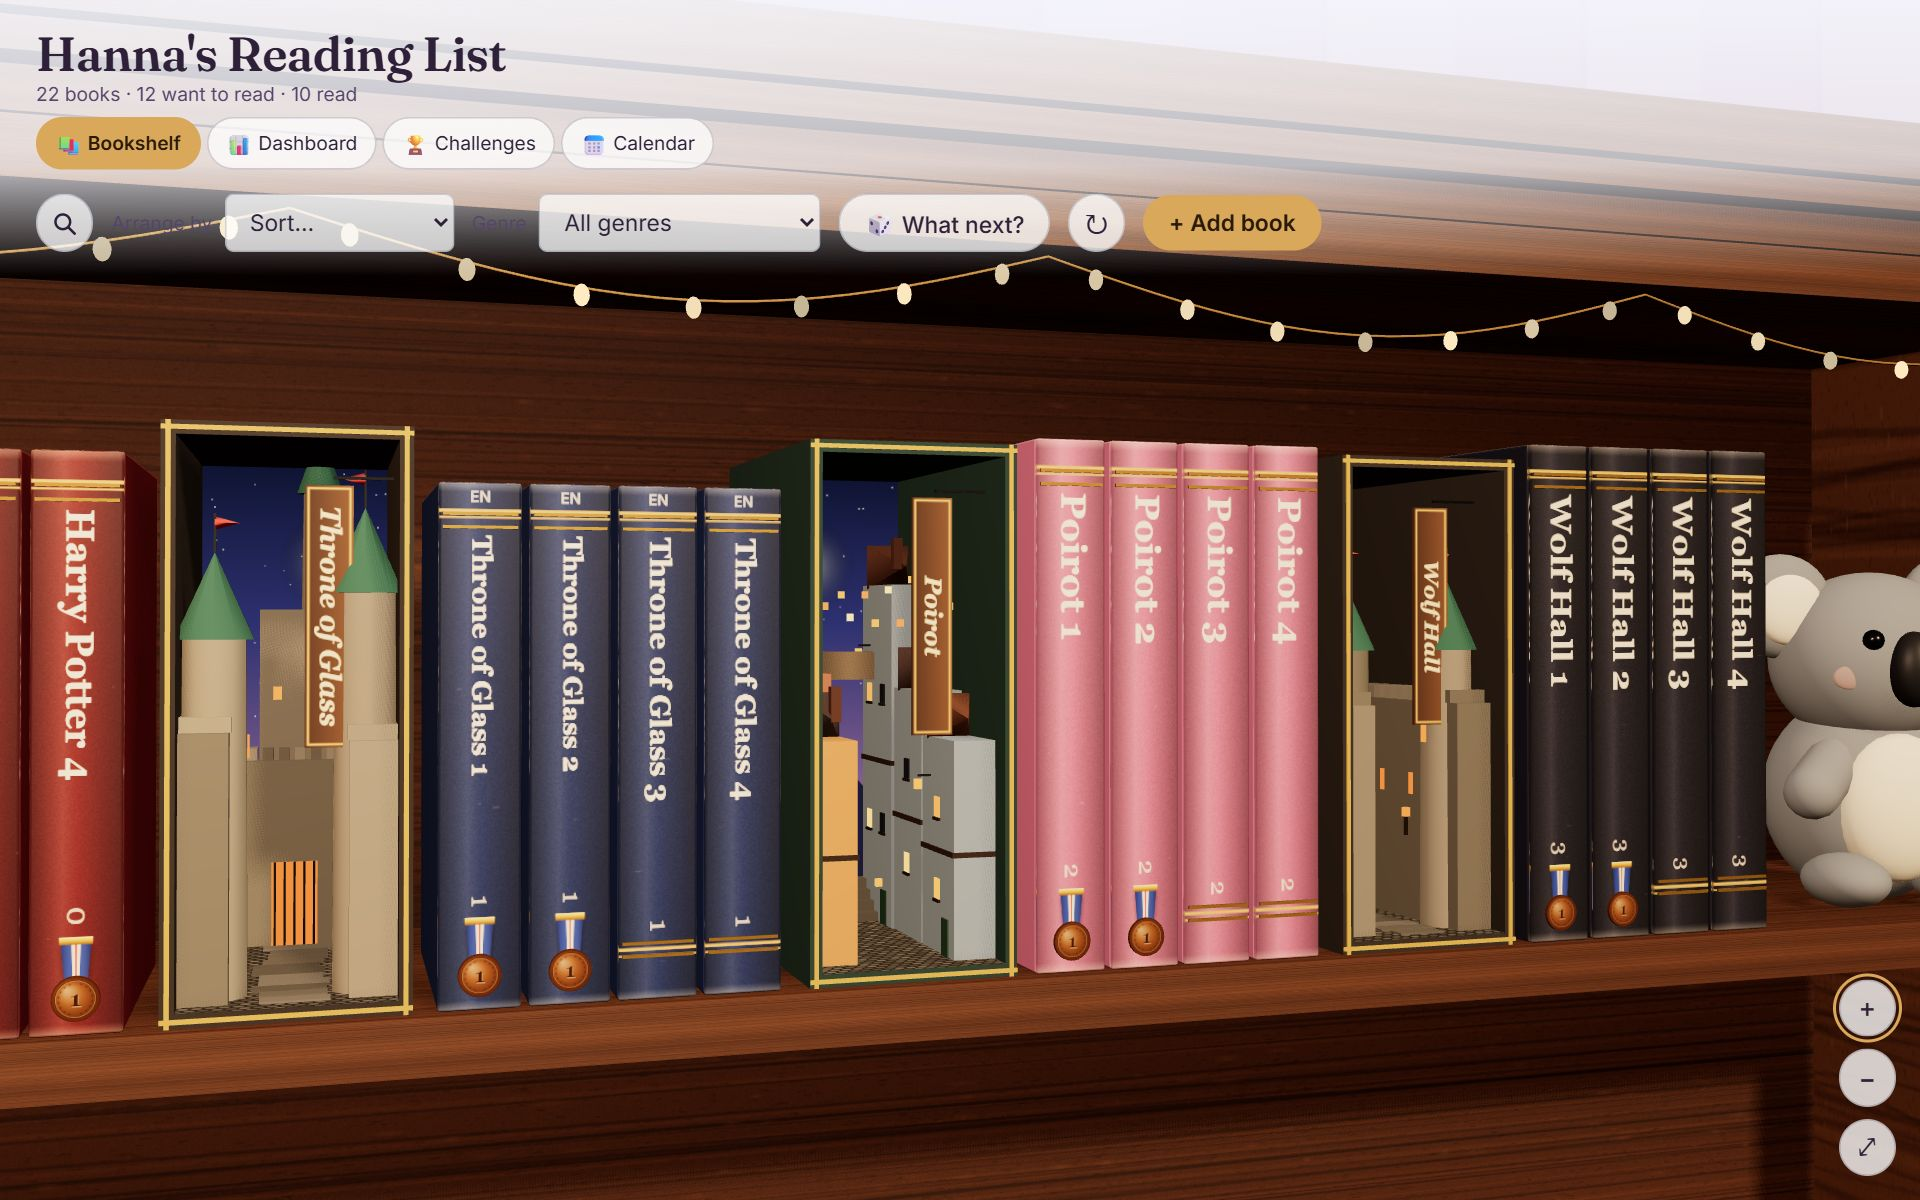
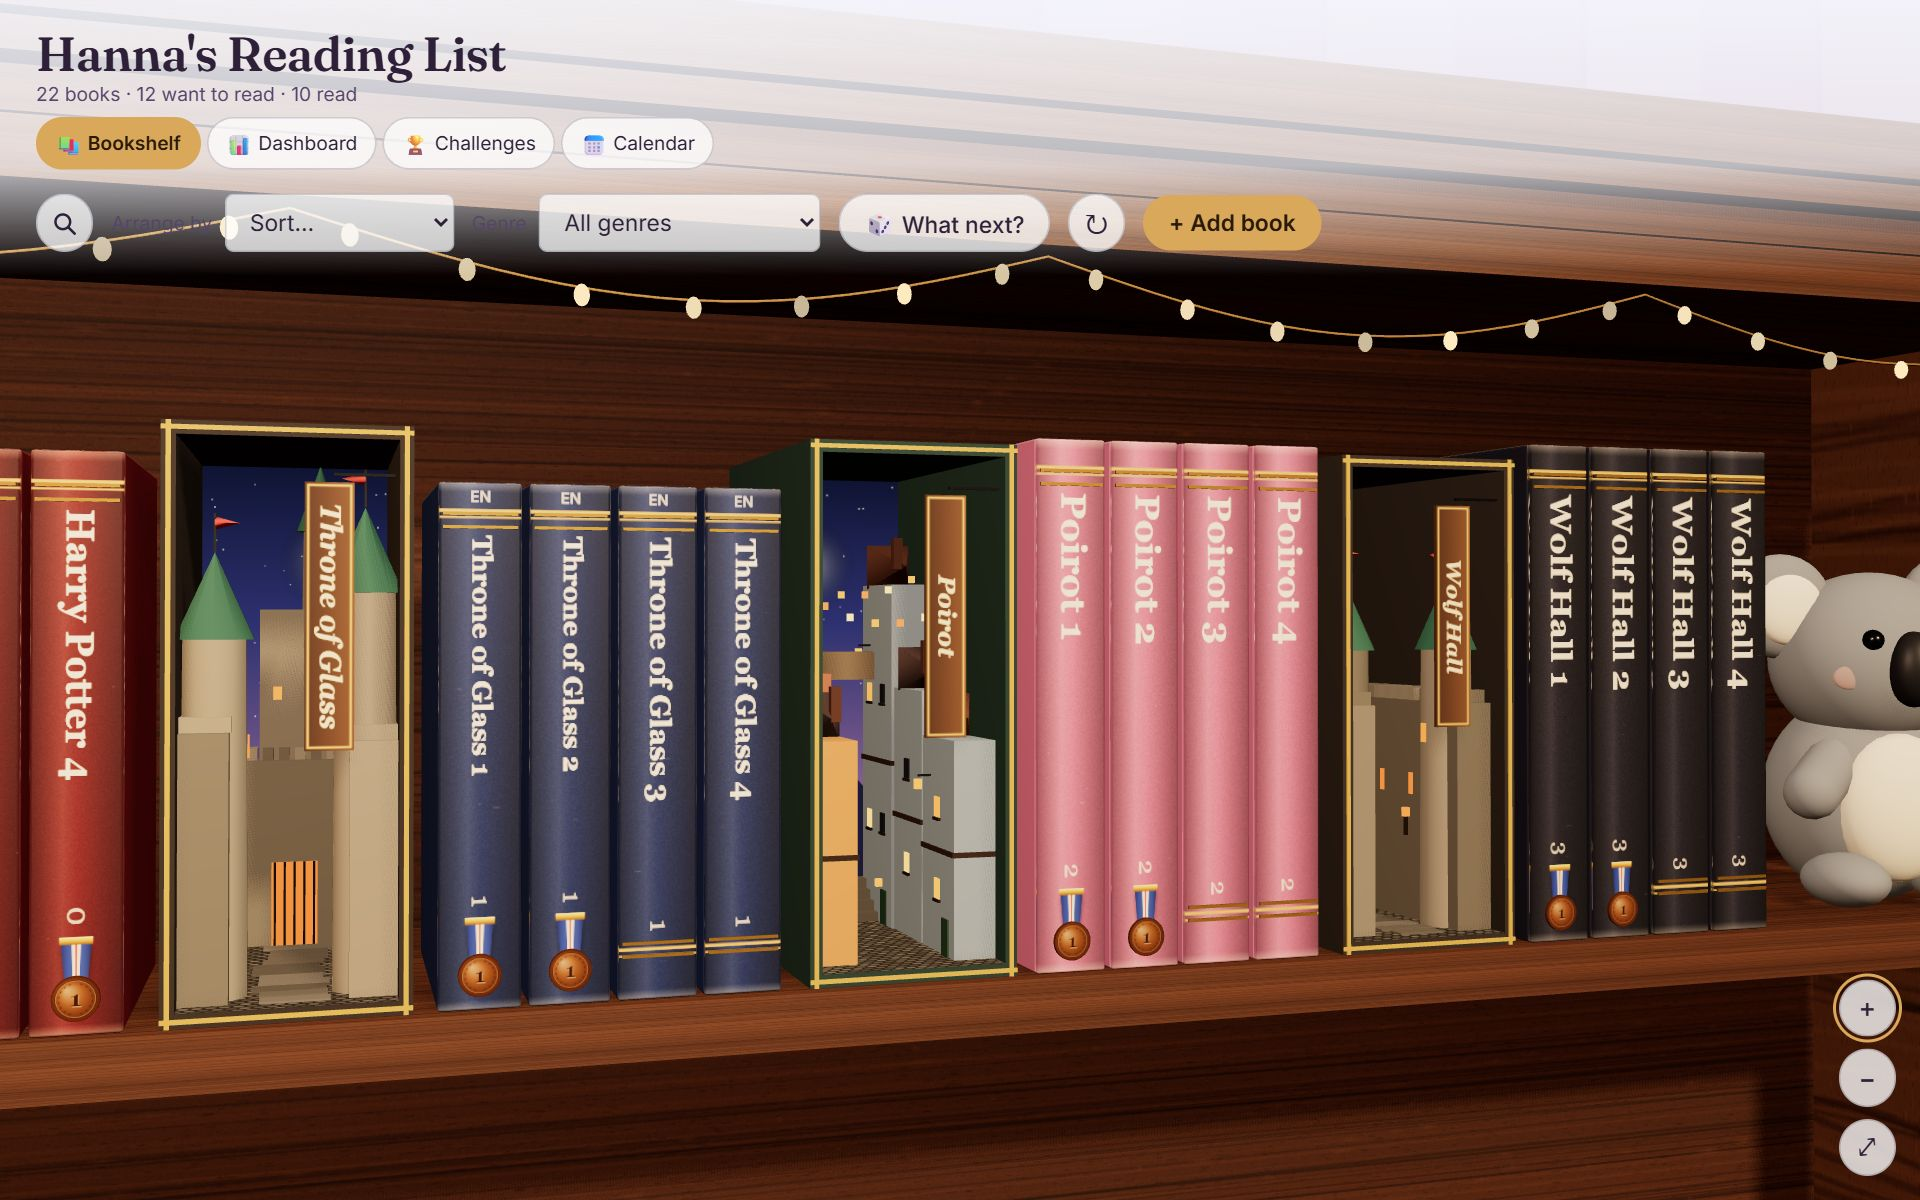
T-0012: the name sign always hangs in front of the scene
Hanna on #211: the name of a series must always be in front. The sign now
hangs right behind the opening, in front of every house, tower and
lantern; a test checks every 3D scene in several variants.

diff --git a/src/components/nook3d.test.ts b/src/components/nook3d.test.ts
@@ -37,3 +37,27 @@ describe('3D book nooks (T-0012)', () => {
     expect(Array.from(a.slice(0, 2000)).join()).not.toBe(Array.from(b.slice(0, 2000)).join())
   })
 })
+
+describe('the name sign is always in front (T-0012, Hanna on #211)', () => {
+  it('hangs in front of everything inside the scene', async () => {
+    const { INNER_SIGN } = await import('./BookNook')
+    const { IW, SHELL } = await import('./nookPaint')
+    for (const theme of NOOK_3D) {
+      for (const variant of [0, 7, 123, 999]) {
+        const g = nookGeometry(theme, variant)!
+        for (const geo of [g.solid, g.glow]) {
+          const pos = geo.attributes.position
+          let front = -Infinity
+          for (let i = 0; i < pos.count; i++) {
+            const x = pos.getX(i)
+            const y = pos.getY(i)
+            // only the scene inside the box, not the box and its gilt edging
+            if (Math.abs(x) < IW / 2 - 0.001 && y > SHELL + 0.001 && y < H - SHELL - 0.001) front = Math.max(front, pos.getZ(i))
+          }
+          // the back of the sign board is still in front of the scene's frontmost point
+          expect(INNER_SIGN.z - 0.00125, `${theme} ${variant}`).toBeGreaterThan(front)
+        }
+      }
+    }
+  })
+})

diff --git a/src/components/BookNook.tsx b/src/components/BookNook.tsx
@@ -78,8 +78,12 @@ function Nook(props: NookProps) {
 const worldSolid = new THREE.MeshStandardMaterial({ vertexColors: true, roughness: 0.85, metalness: 0.03 })
 const worldGlow = new THREE.MeshBasicMaterial({ vertexColors: true, toneMapped: false })
 
-/** The hanging sign inside a 3D nook: smaller, from a bracket on the right-hand wall, near the front. */
-const INNER_SIGN = { w: 0.024, h: 0.136, x: IW / 2 - 0.034, z: D / 2 - 0.03, top: H - SHELL - 0.022 }
+/**
+ * The hanging sign inside a 3D nook: smaller, from a bracket on the right-hand wall, right
+ * behind the opening, so the name is always in front of the scene and never hidden by a house
+ * or a tower (a test checks this in nook3d.test.ts).
+ */
+export const INNER_SIGN = { w: 0.024, h: 0.136, x: IW / 2 - 0.034, z: D / 2 - 0.005, top: H - SHELL - 0.022 }
 
 function Nook3D({ world, theme: themeId, variant, label, complete, sleep, medal }: NookProps & { world: NookGeometry }) {
   const tex = useMemo(() => sceneTextures(themeId, variant), [themeId, variant])

diff --git a/docs/tasks/T-0012-3d-book-nooks.md b/docs/tasks/T-0012-3d-book-nooks.md
@@ -82,3 +82,4 @@ backend:
 - 2026-11-21 developer: built the alley and the castle as merged 3D scenes.
 - 2026-11-21 tester: passed locally. Remaining: Hanna checks the look on the preview and steers
   the style before the other eight scenes are built.
+- 2026-11-21 developer: Hanna on #211: "looks good, but make sure the name of a series is always in front". The sign now hangs right behind the opening (0.5 cm), in front of every house, tower and lantern; a test checks every scene and several variants. Screenshot updated.
